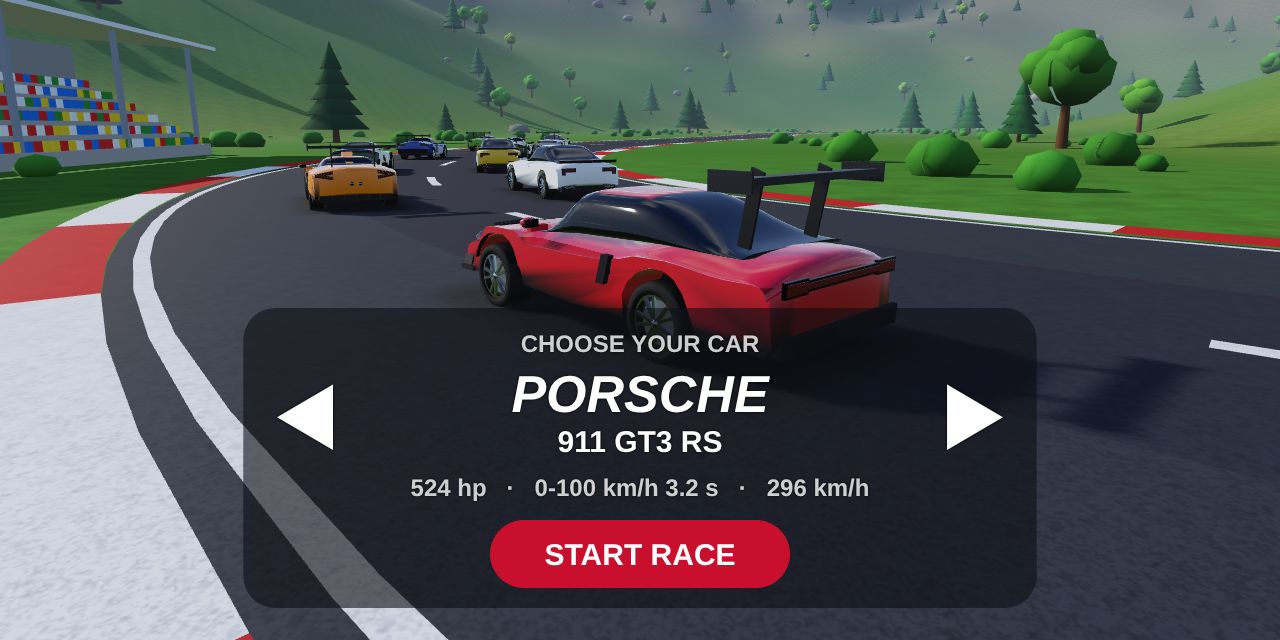
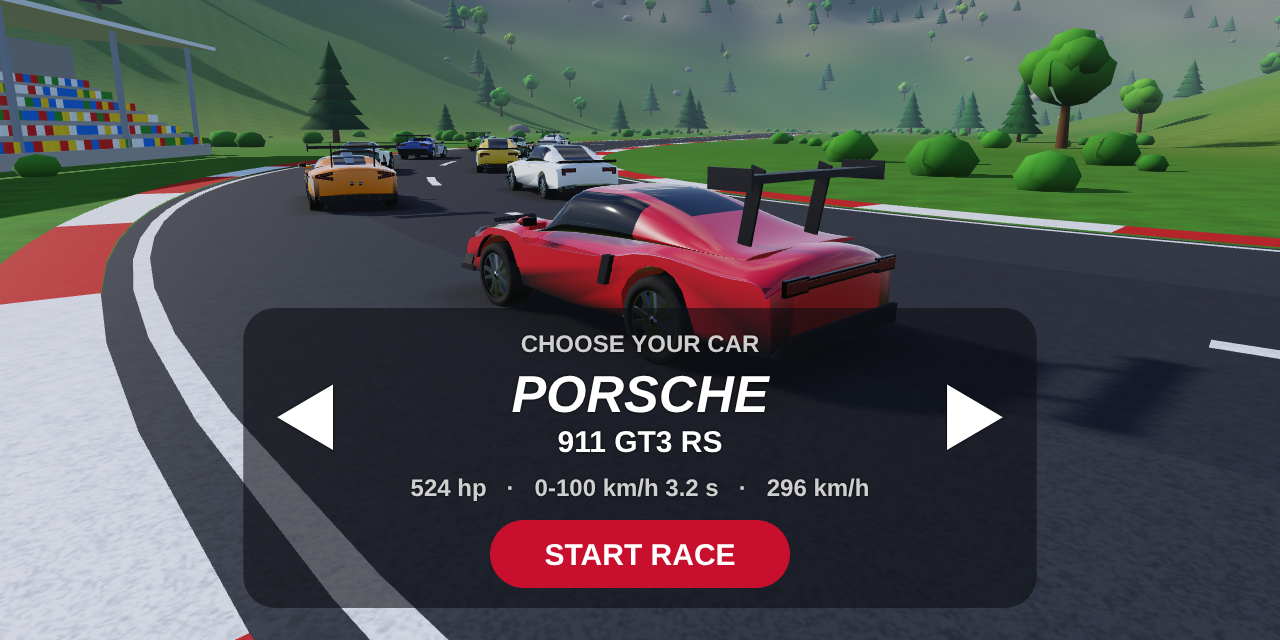
Car bodies closer to the photos: real tire sizes, window outlines, wider greenhouses
Wheels are scaled to each car's real tire sizes and the arches hug them.
Cabins are painted except for the actual windshield, side and rear windows
(pillars, roof and rear quarters in body color), and sit wider on the body.
Darker wheel interiors make the spokes read. Porsche: 911 teardrop roof,
taller fenders, larger round lamps. Lamborghini: lower wedge nose and a
forward windshield. AMG ONE: taller teardrop cabin, the long dark side
scallops and carbon blades. Roof scoops in carbon. Screenshot of the
settings panel.

Claude-Session: https://claude.ai/code/session_01PALYvBmcq9tb4KfgW5X3kT

Changed region(s): [[0.375, 0.25, 0.6875, 0.5312], [0.2188, 0.2188, 0.3125, 0.3125], [0.375, 0.1875, 0.4688, 0.25]]

diff --git a/app/src/main/java/com/titovpower/racegame/CarModel.kt b/app/src/main/java/com/titovpower/racegame/CarModel.kt
@@ -48,7 +48,16 @@ class CarStyle(
     val wingRise: Float = 0f,
     /** Wing position: distance of its center from the tail. */
     val wingZ: Float = 0.32f,
+    /** Tire radii from the real tire sizes; the arches hug them. */
+    val frontWheelR: Float = 0.345f,
+    val rearWheelR: Float = 0.345f,
+    /** Where the side windows end (z); behind it the rear quarter is painted. Default: just behind the roof. */
+    val sideGlassRearZ: Float = roofRearZ - 0.15f,
+    /** Where the rear window ends (z); behind it (an engine lid under a fastback) is painted. */
+    val rearWindowZ: Float = rearGlassZ,
 ) {
+    fun wheelR(axle: Float) = if (axle == frontAxle) frontWheelR else rearWheelR
+    fun archR(axle: Float) = wheelR(axle) + 0.04f
     enum class Grille { LAMBO, PORSCHE, KIDNEY, PANAMERICANA, SINGLEFRAME, ASTON, ONE }
     enum class Headlights { Y_SHAPE, ROUND, ANGULAR, SLIM, SWEPT }
     enum class Wing { LIP, SWAN_NECK, FIXED, NONE }
@@ -72,8 +81,10 @@ class CarStyle(
 }
 
 object CarModel {
-    private const val ARCH_RADIUS = 0.41f
-    private const val WHEEL_RADIUS = 0.345f
+    /** Typical arch radius, for placing details around the arches. */
+    private const val ARCH_RADIUS = 0.39f
+    /** Radius of the wheel mesh; each car scales it to its tire size. */
+    const val WHEEL_RADIUS = 0.345f
 
     private val TRIM = Rgb.hex(0x16171A)
     private val CARBON = Rgb.hex(0x25272B)
@@ -81,6 +92,7 @@ object CarModel {
     private val BRONZE = Rgb.hex(0xC08A4E)
     private val GLASS = Rgb.hex(0x0C131C)
     private val CHROME = Rgb.hex(0xC9CED4)
+    private val ALLOY = Rgb.hex(0xA9AEB5)
     /** Clear headlight glass over a dark reflector: reads as glass, with the light signature in white. */
     private val LENS = Rgb(0.3f, 0.32f, 0.36f)
     private val DRL = Rgb(1f, 1f, 1f)
@@ -89,24 +101,27 @@ object CarModel {
         // From Andy's reference photo (Huracán Super Trofeo EVO2 race car): wedge nose with huge intakes and
         // a wide splitter, hood vents, a roof scoop and a big swan-neck wing.
         "lambo", 4.52f, 0.965f, 1.36f, -1.26f, 0.32f, 0.42f,
-        listOf(2.26f to 0.40f, 2.1f to 0.55f, 1.6f to 0.66f, 0.9f to 0.79f, 0.2f to 0.82f, -0.7f to 0.86f, -1.0f to 0.98f, -1.8f to 1.0f, -2.15f to 0.98f, -2.26f to 0.9f),
-        windshieldZ = 0.9f, roofFrontZ = -0.05f, roofRearZ = -0.7f, rearGlassZ = -1.05f, roofY = 1.16f,
+        listOf(2.26f to 0.36f, 2.05f to 0.56f, 1.6f to 0.69f, 1.05f to 0.8f, 0.3f to 0.84f, -0.6f to 0.88f, -1.3f to 0.99f, -1.9f to 0.99f, -2.15f to 0.97f, -2.26f to 0.88f),
+        windshieldZ = 1.05f, roofFrontZ = 0.05f, roofRearZ = -0.55f, rearGlassZ = -1.3f, roofY = 1.17f,
         grille = CarStyle.Grille.LAMBO, headlights = CarStyle.Headlights.Y_SHAPE, wing = CarStyle.Wing.SWAN_NECK,
         exhaust = CarStyle.Exhaust.CENTER_HIGH, taillights = CarStyle.Taillights.Y_SHAPE, sideIntake = true,
-        hoodDip = 0.02f, hipRise = 0.04f, frontWidth = 0.98f, cabinBase = 0.78f, cabinTop = 0.52f,
+        hoodDip = 0.02f, hipRise = 0.04f, frontWidth = 0.98f, cabinBase = 0.85f, cabinTop = 0.59f,
         // Super Trofeo EVO2 (Andy's reference photo): a big wing on swan necks, overhanging the tail.
         wingRise = 0.44f, wingZ = 0.22f,
+        frontWheelR = CarSpec.LAMBORGHINI.frontTyre.radius, rearWheelR = CarSpec.LAMBORGHINI.rearTyre.radius,
     )
     val PORSCHE = CarStyle(
         // From Andy's reference photos (911 GT3 RS): tall fenders over a low hood with two big vents,
         // a wide black lower intake, a huge swan-neck wing and intakes behind the doors.
         "911", 4.57f, 0.925f, 1.30f, -1.16f, 0.32f, 0.40f,
-        listOf(2.28f to 0.52f, 2.1f to 0.62f, 1.5f to 0.72f, 0.75f to 0.85f, 0f to 0.87f, -0.9f to 0.9f, -1.8f to 0.93f, -2.2f to 0.92f, -2.28f to 0.8f),
-        windshieldZ = 0.75f, roofFrontZ = 0.15f, roofRearZ = -0.55f, rearGlassZ = -1.85f, roofY = 1.28f,
+        listOf(2.28f to 0.54f, 2.1f to 0.65f, 1.6f to 0.72f, 0.8f to 0.86f, 0f to 0.89f, -0.9f to 0.92f, -1.9f to 0.95f, -2.2f to 0.93f, -2.28f to 0.82f),
+        windshieldZ = 0.78f, roofFrontZ = 0.2f, roofRearZ = -0.25f, rearGlassZ = -1.95f, roofY = 1.3f,
         grille = CarStyle.Grille.PORSCHE, headlights = CarStyle.Headlights.ROUND, wing = CarStyle.Wing.SWAN_NECK,
         exhaust = CarStyle.Exhaust.CENTER_PAIR, taillights = CarStyle.Taillights.FULL_BAR,
-        hoodDip = 0.1f, hipRise = 0.07f, frontWidth = 0.93f, cabinBase = 0.8f, cabinTop = 0.6f,
+        hoodDip = 0.13f, hipRise = 0.08f, frontWidth = 0.93f, cabinBase = 0.88f, cabinTop = 0.66f,
         wingRise = 0.56f, wingZ = 0.42f,
+        frontWheelR = CarSpec.PORSCHE.frontTyre.radius, rearWheelR = CarSpec.PORSCHE.rearTyre.radius,
+        sideGlassRearZ = -0.75f, rearWindowZ = -1.1f,
     )
     val BMW = CarStyle(
         "m4", 4.79f, 0.945f, 1.50f, -1.36f, 0.30f, 0.45f,
@@ -116,18 +131,21 @@ object CarModel {
         windshieldZ = 0.6f, roofFrontZ = -0.1f, roofRearZ = -0.7f, rearGlassZ = -1.95f, roofY = 1.38f,
         grille = CarStyle.Grille.KIDNEY, headlights = CarStyle.Headlights.ANGULAR, wing = CarStyle.Wing.LIP,
         exhaust = CarStyle.Exhaust.QUAD, taillights = CarStyle.Taillights.L_SHAPE,
-        hoodDip = 0.03f, hipRise = 0.05f, frontWidth = 0.97f, cabinBase = 0.84f, cabinTop = 0.62f,
+        hoodDip = 0.03f, hipRise = 0.05f, frontWidth = 0.97f, cabinBase = 0.90f, cabinTop = 0.69f,
+        frontWheelR = CarSpec.BMW.frontTyre.radius, rearWheelR = CarSpec.BMW.rearTyre.radius,
+        sideGlassRearZ = -1.15f,
     )
     val MERCEDES = CarStyle(
         "amggt", 4.76f, 1.0f, 1.30f, -1.42f, 0.26f, 0.4f,
         // From Andy's reference photos (AMG ONE hypercar): low nose with big dark openings, cab-forward
         // teardrop cabin with a roof snorkel, a long engine cover with a fin, and a big carbon wing.
-        listOf(2.38f to 0.44f, 2.25f to 0.57f, 1.9f to 0.68f, 1.3f to 0.77f, 0.95f to 0.82f, 0f to 0.92f, -0.95f to 1.0f, -1.6f to 0.98f, -2.15f to 0.95f, -2.3f to 0.92f, -2.38f to 0.8f),
-        windshieldZ = 0.95f, roofFrontZ = 0.15f, roofRearZ = -0.45f, rearGlassZ = -0.95f, roofY = 1.25f,
+        listOf(2.38f to 0.44f, 2.22f to 0.58f, 1.8f to 0.7f, 1.3f to 0.78f, 1.0f to 0.82f, 0.3f to 0.85f, -0.45f to 0.89f, -1.1f to 0.94f, -1.6f to 0.96f, -2.1f to 0.93f, -2.3f to 0.89f, -2.38f to 0.78f),
+        windshieldZ = 1.0f, roofFrontZ = 0.2f, roofRearZ = -0.4f, rearGlassZ = -1.1f, roofY = 1.26f,
         grille = CarStyle.Grille.ONE, headlights = CarStyle.Headlights.SWEPT, wing = CarStyle.Wing.FIXED,
         exhaust = CarStyle.Exhaust.CENTER_PAIR, taillights = CarStyle.Taillights.SLIM_PAIR, sideIntake = true,
-        hoodDip = 0.09f, hipRise = 0.08f, frontWidth = 0.94f, cabinBase = 0.68f, cabinTop = 0.46f,
+        hoodDip = 0.09f, hipRise = 0.08f, frontWidth = 0.94f, cabinBase = 0.75f, cabinTop = 0.53f,
         wingRise = 0.2f, wingZ = 0.26f,
+        frontWheelR = CarSpec.MERCEDES.frontTyre.radius, rearWheelR = CarSpec.MERCEDES.rearTyre.radius,
     )
     val AUDI = CarStyle(
         "r8", 4.43f, 0.97f, 1.34f, -1.31f, 0.32f, 0.42f,
@@ -137,7 +155,8 @@ object CarModel {
         windshieldZ = 0.85f, roofFrontZ = 0f, roofRearZ = -0.65f, rearGlassZ = -1.0f, roofY = 1.24f,
         grille = CarStyle.Grille.SINGLEFRAME, headlights = CarStyle.Headlights.SWEPT, wing = CarStyle.Wing.SWAN_NECK,
         exhaust = CarStyle.Exhaust.OVAL_PAIR, taillights = CarStyle.Taillights.SLIM_PAIR, sideBlade = true,
-        hoodDip = 0.04f, hipRise = 0.04f, frontWidth = 0.97f, cabinBase = 0.78f, cabinTop = 0.55f,
+        hoodDip = 0.04f, hipRise = 0.04f, frontWidth = 0.97f, cabinBase = 0.85f, cabinTop = 0.62f,
+        frontWheelR = CarSpec.AUDI.frontTyre.radius, rearWheelR = CarSpec.AUDI.rearTyre.radius,
     )
     val ASTON = CarStyle(
         "vantage", 4.50f, 0.99f, 1.38f, -1.32f, 0.30f, 0.44f,
@@ -147,7 +166,9 @@ object CarModel {
         windshieldZ = 0.3f, roofFrontZ = -0.35f, roofRearZ = -0.9f, rearGlassZ = -1.75f, roofY = 1.27f,
         grille = CarStyle.Grille.ASTON, headlights = CarStyle.Headlights.SWEPT, wing = CarStyle.Wing.NONE,
         exhaust = CarStyle.Exhaust.QUAD, taillights = CarStyle.Taillights.BLADE,
-        hoodDip = 0.06f, hipRise = 0.1f, frontWidth = 0.92f, cabinBase = 0.74f, cabinTop = 0.52f,
+        hoodDip = 0.06f, hipRise = 0.1f, frontWidth = 0.92f, cabinBase = 0.81f, cabinTop = 0.59f,
+        frontWheelR = CarSpec.ASTON.frontTyre.radius, rearWheelR = CarSpec.ASTON.rearTyre.radius,
+        sideGlassRearZ = -1.05f,
     )
 
     fun styleFor(spec: CarSpec): CarStyle = when (spec) {
@@ -165,13 +186,15 @@ object CarModel {
     private fun sideProfile(st: CarStyle): List<P> {
         val pts = ArrayList<P>()
         fun arch(axle: Float) {
-            pts.add(P(axle - ARCH_RADIUS - 0.02f, 0.27f, 0f))
+            val ar = st.archR(axle)
+            val wr = st.wheelR(axle)
+            pts.add(P(axle - ar - 0.02f, 0.27f, 0f))
             val steps = 9
             for (k in 0..steps) {
                 val a = (PI - k * PI / steps).toFloat()
-                pts.add(P(axle + cos(a) * ARCH_RADIUS, WHEEL_RADIUS + sin(a) * ARCH_RADIUS, 0f))
+                pts.add(P(axle + cos(a) * ar, wr + sin(a) * ar, 0f))
             }
-            pts.add(P(axle + ARCH_RADIUS + 0.02f, 0.27f, 0f))
+            pts.add(P(axle + ar + 0.02f, 0.27f, 0f))
         }
         pts.add(P(st.rear + 0.06f, st.tailLowY - 0.08f, 0.4f))
         arch(st.rearAxle)
@@ -206,7 +229,7 @@ object CarModel {
         for (axle in floatArrayOf(st.frontAxle, st.rearAxle)) {
             val t = clamp((abs(z - axle) - 0.3f) / 0.45f, 0f, 1f)
             val w = 0.5f + 0.5f * cos(t * PI.toFloat())
-            top = maxOf(top, (WHEEL_RADIUS + ARCH_RADIUS + 0.06f) * w)
+            top = maxOf(top, (st.wheelR(axle) + st.archR(axle) + 0.06f) * w)
         }
         return top
     }
@@ -287,7 +310,7 @@ object CarModel {
             b.gloss = 0.3f
             b.orientedBox(V3(side * (hw - 0.1f), y - 0.06f, z + 0.02f), V3(0.1f, 0f, 0f), V3(0f, 0.03f, 0f), V3(0f, 0f, 0.035f), paint)
             b.gloss = 0.8f
-            b.blob(V3(side * (hw + 0.02f), y, z), 0.09f, 0.055f, 0.065f, 5, 10, paint)
+            b.blob(V3(side * (hw + 0.02f), y, z), 0.1f, 0.045f, 0.06f, 5, 10, paint)
             b.gloss = 0.95f
             b.orientedBox(V3(side * (hw + 0.02f), y, z - 0.06f), V3(0.075f, 0f, 0f), V3(0f, 0.04f, 0f), V3(0f, 0f, 0.008f), GLASS)
         }
@@ -356,7 +379,7 @@ object CarModel {
             val zv = st.windshieldZ + 0.3f
             b.orientedBox(V3(side * 0.22f, st.topY(zv) + 0.004f, zv), V3(0.12f, 0f, 0f), V3(0f, 0.008f, 0f), V3(0f, 0.02f, 0.12f), TRIM)
         }
-        roofScoop(b, st, paint, 0.13f)
+        roofScoop(b, st, CARBON, 0.1f)
         // Black diffuser fins under the tail.
         b.gloss = 0.3f
         for (x in floatArrayOf(-0.5f, -0.25f, 0f, 0.25f, 0.5f)) b.box(x, 0.3f, st.rear + 0.14f, 0.01f, 0.07f, 0.16f, CARBON)
@@ -397,7 +420,24 @@ object CarModel {
                 b.orientedBox(V3(side * (hw - 0.3f), st.topY(z) + st.hoodDip + 0.005f, z), V3(0.16f, 0f, 0f), V3(0f, 0.008f, 0f), V3(0f, 0.01f, 0.025f), TRIM)
             }
         }
-        roofScoop(b, st, paint, 0.15f)
+        roofScoop(b, st, CARBON, 0.11f)
+        // The long dark scallop along each side, from behind the front wheel to the rear wheel,
+        // with a carbon blade standing out behind the front wheel.
+        for (side in floatArrayOf(-1f, 1f)) {
+            val x = side * (hw - 0.02f)
+            val z0 = st.rearAxle + st.archR(st.rearAxle) + 0.05f
+            val z1 = st.frontAxle - st.archR(st.frontAxle) - 0.05f
+            b.gloss = 0.3f
+            b.hexahedron(
+                arrayOf(
+                    V3(x - side * 0.06f, 0.33f, z0), V3(x + side * 0.012f, 0.33f, z0), V3(x + side * 0.012f, 0.33f, z1), V3(x - side * 0.06f, 0.33f, z1),
+                    V3(x - side * 0.06f, 0.62f, z0 + 0.1f), V3(x + side * 0.012f, 0.62f, z0 + 0.1f), V3(x + side * 0.012f, 0.5f, z1 - 0.25f), V3(x - side * 0.06f, 0.5f, z1 - 0.25f),
+                ),
+                TRIM,
+            )
+            b.gloss = 0.5f
+            b.orientedBox(V3(x + side * 0.03f, 0.5f, z1 - 0.06f), V3(0.012f, 0f, 0f), V3(0f, 0.17f, -0.07f), V3(0f, 0.04f, 0.03f), CARBON)
+        }
         // The fin from the roof down the engine cover to the wing.
         val z0 = st.roofRearZ
         val z1 = st.rear + st.wingZ
@@ -406,7 +446,7 @@ object CarModel {
         b.hexahedron(
             arrayOf(
                 V3(-t, st.topY(z0) + 0.1f, z0), V3(t, st.topY(z0) + 0.1f, z0), V3(t, st.topY(z1), z1), V3(-t, st.topY(z1), z1),
-                V3(-t, st.roofY + 0.02f, z0), V3(t, st.roofY + 0.02f, z0), V3(t, st.topY(z1) + 0.22f, z1), V3(-t, st.topY(z1) + 0.22f, z1),
+                V3(-t, st.roofY - 0.03f, z0), V3(t, st.roofY - 0.03f, z0), V3(t, st.topY(z1) + 0.14f, z1), V3(-t, st.topY(z1) + 0.14f, z1),
             ),
             paint,
         )
@@ -438,27 +478,28 @@ object CarModel {
 
     /** Dark liners inside the wheel arches, so you can't see through the body above the tires. */
     private fun wheelWells(b: MeshBuilder, st: CarStyle) {
-        val r = ARCH_RADIUS + 0.01f
         val hw = st.halfWidth
         b.gloss = 0.05f
         val steps = 12
         for (axle in floatArrayOf(st.frontAxle, st.rearAxle)) for (side in floatArrayOf(-1f, 1f)) {
+            val r = st.archR(axle) + 0.01f
+            val wr = st.wheelR(axle)
             val xo = side * (hw - 0.03f)
             val xi = side * (hw - 0.42f)
             val above = V3(xo, 3f, axle)
             for (k in 0 until steps) {
                 val a0 = (k * PI / steps).toFloat()
                 val a1 = ((k + 1) * PI / steps).toFloat()
-                val p0 = V3(0f, WHEEL_RADIUS + sin(a0) * r, axle + cos(a0) * r)
-                val p1 = V3(0f, WHEEL_RADIUS + sin(a1) * r, axle + cos(a1) * r)
+                val p0 = V3(0f, wr + sin(a0) * r, axle + cos(a0) * r)
+                val p1 = V3(0f, wr + sin(a1) * r, axle + cos(a1) * r)
                 // Liner facing down towards the wheel.
                 b.quad(V3(xo, p0.y, p0.z), V3(xo, p1.y, p1.z), V3(xi, p1.y, p1.z), V3(xi, p0.y, p0.z), WELL, above)
                 // Inner wall facing out.
-                b.tri(V3(xi, WHEEL_RADIUS - 0.08f, axle), V3(xi, p0.y, p0.z), V3(xi, p1.y, p1.z), WELL, V3(0f, WHEEL_RADIUS, axle))
+                b.tri(V3(xi, wr - 0.08f, axle), V3(xi, p0.y, p0.z), V3(xi, p1.y, p1.z), WELL, V3(0f, wr, axle))
             }
             b.quad(
-                V3(xi, WHEEL_RADIUS - 0.08f, axle - r), V3(xi, WHEEL_RADIUS - 0.08f, axle + r),
-                V3(xi, WHEEL_RADIUS, axle + r), V3(xi, WHEEL_RADIUS, axle - r), WELL, V3(0f, WHEEL_RADIUS, axle),
+                V3(xi, wr - 0.08f, axle - r), V3(xi, wr - 0.08f, axle + r),
+                V3(xi, wr, axle + r), V3(xi, wr, axle - r), WELL, V3(0f, wr, axle),
             )
         }
     }
@@ -466,7 +507,7 @@ object CarModel {
     /** Glass greenhouse with painted roof and pillars, lofted along z. */
     private fun cabin(b: MeshBuilder, st: CarStyle, paint: Rgb) {
         val hw = st.halfWidth
-        val zs = (0..20).map { k -> st.rearGlassZ + (st.windshieldZ - st.rearGlassZ) * k / 20f }
+        val zs = (0..40).map { k -> st.rearGlassZ + (st.windshieldZ - st.rearGlassZ) * k / 40f }
         val segs = 32
         fun roofAt(z: Float): Float {
             val base = st.topY(z)
@@ -493,16 +534,25 @@ object CarModel {
                 V3(sx * w, base + t * (roof - base), z)
             }
         }
-        fun isRoof(i: Int, j: Int): Boolean {
-            val (z, _, roof) = secs[i]
-            val p = rings[i][j]
-            return p.y > roof - 0.03f && z < st.roofFrontZ + 0.05f && z > st.roofRearZ - 0.05f
+        // Glass only where the windows are: the windshield and rear window on top, the side windows
+        // above the beltline; pillars, roof, rear quarters and the lid behind the rear window are painted.
+        fun isGlass(i: Int, j: Int): Boolean {
+            val z = secs[i].first
+            val a = ((j + 0.5f) * 360f / segs) % 360f
+            val side = a < 50f || a > 310f || (a > 130f && a < 230f)
+            val pillar = (a in 50f..64f) || (a in 116f..130f)
+            return when {
+                pillar -> false
+                // The beltline sits a little below the greenhouse's middle.
+                side -> sin(Math.toRadians(a.toDouble())).toFloat() > -0.65f && z < st.windshieldZ - 0.12f && z > st.sideGlassRearZ
+                else -> z > st.roofFrontZ || (z < st.roofRearZ && z > st.rearWindowZ)
+            }
         }
         b.loft(
             rings,
-            colorAt = { i, j -> if (isRoof(i, j)) paint else GLASS },
-            glossAt = { i, j -> if (isRoof(i, j)) 0.8f else 1f },
-            capStart = true, capEnd = true,
+            colorAt = { i, j -> if (isGlass(i, j)) GLASS else paint },
+            glossAt = { i, j -> if (isGlass(i, j)) 1f else 0.8f },
+            capStart = true, capEnd = true, flat = true,
         )
     }
 
@@ -624,8 +674,8 @@ object CarModel {
                     val z = st.front - 0.3f
                     val y = archTop(st, z).coerceAtLeast(st.topY(z)) - 0.04f
                     b.gloss = 1f
-                    b.blob(V3(side * (hw - 0.33f), y, z), 0.12f, 0.1f, 0.12f, 5, 12, LENS)
-                    b.blob(V3(side * (hw - 0.33f), y, z + 0.07f), 0.07f, 0.06f, 0.05f, 4, 10, DRL)
+                    b.blob(V3(side * (hw - 0.34f), y, z), 0.14f, 0.12f, 0.14f, 5, 12, LENS)
+                    b.blob(V3(side * (hw - 0.34f), y, z + 0.09f), 0.085f, 0.075f, 0.05f, 4, 10, DRL)
                 }
                 CarStyle.Headlights.Y_SHAPE -> {
                     val z = st.front - 0.24f
@@ -806,22 +856,22 @@ object CarModel {
                 b.vertex(i0, n, color); b.vertex(o1, n, color); b.vertex(i1, n, color)
             }
         }
-        // Dark rim barrel, brake disc, polished rim lip.
-        disc(0.06f, 0.24f, Rgb.hex(0x2A2C30), 0.3f)
-        disc(0.09f, 0.19f, Rgb.hex(0x6D6F73), 0.5f)
-        disc(0.14f, 0.245f, CHROME, 0.9f, inner = 0.22f)
-        // Ten thin spokes in five pairs, and a center lock.
-        b.gloss = 0.9f
+        // Near-black rim barrel and a dark brake disc, so the spokes stand out against them; a bright rim lip.
+        disc(0.05f, 0.24f, Rgb.hex(0x0D0E10), 0.2f)
+        disc(0.085f, 0.2f, Rgb.hex(0x34363A), 0.4f)
+        disc(0.14f, 0.248f, ALLOY, 0.9f, inner = 0.228f)
+        // Ten forged spokes in five pairs, flaring out to the lip, and a center lock.
+        b.gloss = 0.85f
         for (k in 0 until 10) {
-            val a = (k * 2 * PI / 10).toFloat() + if (k % 2 == 0) 0.08f else -0.08f
+            val a = (k * 2 * PI / 10).toFloat() + if (k % 2 == 0) 0.07f else -0.07f
             val dir = V3(0f, cos(a), sin(a))
             val side = V3(0f, -sin(a), cos(a))
-            b.orientedBox(V3(0.13f, 0f, 0f) + dir * 0.13f, V3(0.012f, 0f, 0f), dir * 0.1f, side * 0.014f, CHROME)
+            b.orientedBox(V3(0.128f, 0f, 0f) + dir * 0.14f, V3(0.014f, 0f, 0f), dir * 0.095f, side * 0.019f, ALLOY)
         }
-        b.blob(V3(0.135f, 0f, 0f), 0.02f, 0.05f, 0.05f, 4, 8, CHROME)
+        b.blob(V3(0.13f, 0f, 0f), 0.025f, 0.06f, 0.06f, 4, 10, ALLOY)
+        b.blob(V3(0.15f, 0f, 0f), 0.012f, 0.025f, 0.025f, 3, 8, Rgb.hex(0x18191B))
         b.gloss = 0f
         return b.toArray()
     }
 
-    const val WHEEL_RADIUS_RENDER = WHEEL_RADIUS
 }

diff --git a/app/src/main/java/com/titovpower/racegame/MeshBuilder.kt b/app/src/main/java/com/titovpower/racegame/MeshBuilder.kt
@@ -161,7 +161,8 @@ class MeshBuilder(initialCapacity: Int = 4096) {
      * Rings are closed loops. Normals come from the grid's neighbors and point away from
      * each ring's center. Optional caps close the first and last ring.
      */
-    fun loft(rings: List<List<V3>>, colorAt: (Int, Int) -> Rgb, glossAt: (Int, Int) -> Float, capStart: Boolean, capEnd: Boolean) {
+    /** [flat]: each quad takes the color and gloss of its first corner, for crisp edges (window outlines). */
+    fun loft(rings: List<List<V3>>, colorAt: (Int, Int) -> Rgb, glossAt: (Int, Int) -> Float, capStart: Boolean, capEnd: Boolean, flat: Boolean = false) {
         val nr = rings.size
         val ns = rings[0].size
         val centers = rings.map { ring ->
@@ -184,7 +185,11 @@ class MeshBuilder(initialCapacity: Int = 4096) {
         for (i in 0 until nr - 1) for (j in 0 until ns) {
             val j1 = (j + 1) % ns
             val idx = arrayOf(i to j, i + 1 to j, i + 1 to j1, i to j, i + 1 to j1, i to j1)
-            for ((a, b) in idx) vertex(rings[a][b], normals[a][b], colorAt(a, b), glossAt(a, b))
+            for ((a, b) in idx) {
+                val ca = if (flat) i else a
+                val cb = if (flat) j else b
+                vertex(rings[a][b], normals[a][b], colorAt(ca, cb), glossAt(ca, cb))
+            }
         }
         fun cap(i: Int, outward: V3) {
             for ((a, b, c) in triangulate(rings[i], outward)) {

diff --git a/app/src/main/java/com/titovpower/racegame/Scene.kt b/app/src/main/java/com/titovpower/racegame/Scene.kt
@@ -240,10 +240,13 @@ class Scene(private val game: GameState) {
                 val wx = if (k % 2 == 0) st.wheelX else -st.wheelX
                 val wz = if (k < 2) st.frontAxle else st.rearAxle
                 val m = base.copyOf()
-                Matrix.translateM(m, 0, wx, CarModel.WHEEL_RADIUS_RENDER, wz)
+                // The wheel mesh scaled to this axle's real tire size.
+                val tyre = if (k < 2) r.spec.frontTyre else r.spec.rearTyre
+                val size = tyre.radius / CarModel.WHEEL_RADIUS
+                Matrix.translateM(m, 0, wx, tyre.radius, wz)
                 if (wz > 0f) Matrix.rotateM(m, 0, steerDeg, 0f, 1f, 0f)
                 Matrix.rotateM(m, 0, spinDeg, 1f, 0f, 0f)
-                if (wx < 0f) Matrix.scaleM(m, 0, -1f, 1f, 1f)
+                Matrix.scaleM(m, 0, (if (wx < 0f) -1f else 1f) * tyre.width / 0.3f, size, size)
                 out.add(m)
             }
         }

diff --git a/README.md b/README.md
@@ -8,6 +8,7 @@ track through grass, woods and hills, seen from a chase camera behind the car.
 ![On the grass](docs/grass.png)
 ![YOU WIN after 5 laps](docs/win.png)
 ![The six cars](docs/cars.png)
+![Control sensitivity settings](docs/settings.png)
 
 <sub>Screenshots are rendered from the game's own assets and shaders with WebGL 2 in headless Chromium,
 see `tools/preview`. The steering wheel and HUD in them are an approximation of the Android overlay.</sub>
